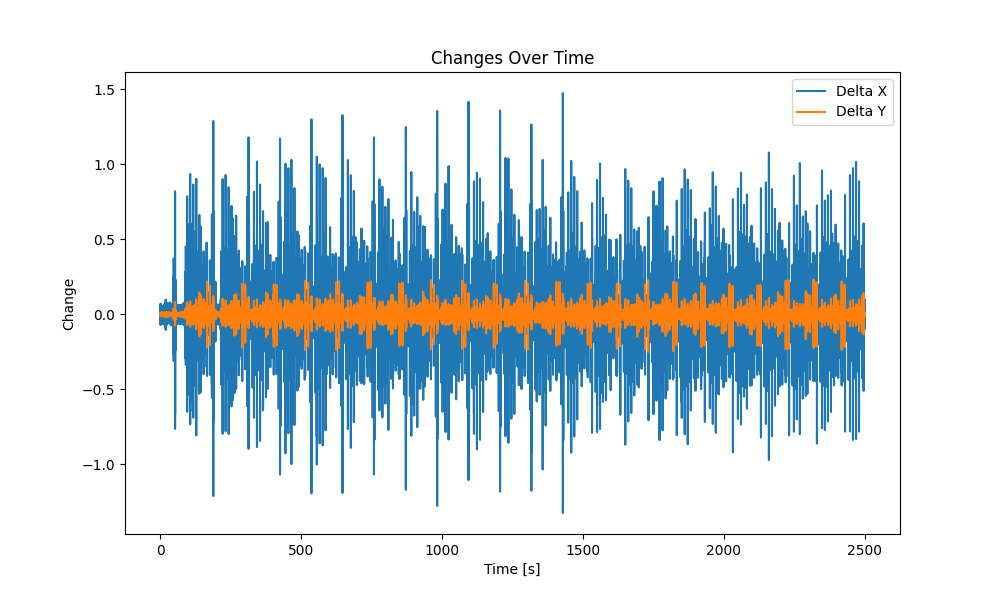
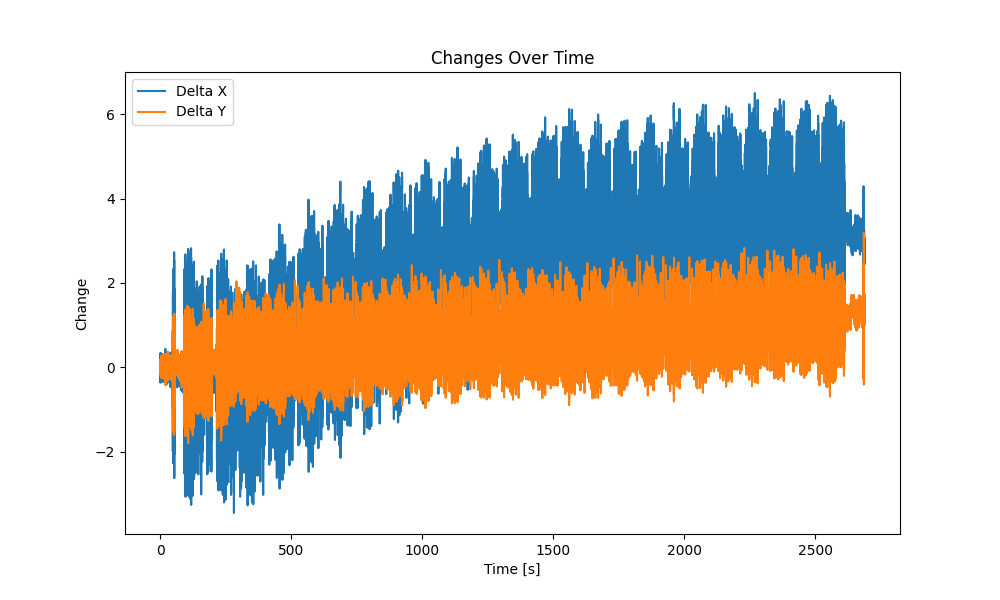
Corrected approach to deltas (102-104), omitted first frequencies in plotting (183), and deltas distribution plot is no longer limited to a fraction of the total range and is plotted whole (205-206).

diff --git a/main.py b/main.py
@@ -75,7 +75,8 @@ def process_interferometer_data(csv_paths, zenithal_angles, D_mm, delta_angle, o
     deltas_x = []
     deltas_y = []
     phis = []
-    prev_measurements = [None, None, None]
+    baseline_measurement = [None, None, None]
+
 
     for i, (measurement1, measurement2, measurement3) in enumerate(raw_measurements):
         # Apply mathematical corrections
@@ -83,24 +84,20 @@ def process_interferometer_data(csv_paths, zenithal_angles, D_mm, delta_angle, o
         horizontal_distance2 = measurement2 * m.sin(gon2rad(zenithal_angles[1]))
         horizontal_distance3 = measurement3 * m.sin(gon2rad(zenithal_angles[2]))
 
+        if None in baseline_measurement:
+            baseline_measurement = (horizontal_distance1, horizontal_distance2, horizontal_distance3)
+
         # Calculate cartesian coordinates
-        if None not in prev_measurements:
-            delta_x = ((horizontal_distance1 * m.sin(delta) - prev_measurements[0] * m.sin(delta)) + (horizontal_distance2 * m.sin(m.tau - omega) - prev_measurements[1] * m.sin(m.tau - omega)))/2
-            phi = ((horizontal_distance2  - prev_measurements[1] ) * m.sin(m.tau - omega) - ((horizontal_distance1 - prev_measurements[0]) * m.sin(delta)))/D
-            delta_y = m.sin(ksi) * (horizontal_distance3 - prev_measurements[2]) - (D/2 - (D * m.cos(phi))/2)
-        else:
-            delta_x = 0
-            phi = 0
-            delta_y = 0
+        delta_x = ((horizontal_distance1 * m.sin(delta) - baseline_measurement[0] * m.sin(delta)) + (horizontal_distance2 * m.sin(m.tau - omega) - baseline_measurement[1] * m.sin(m.tau - omega)))/2
+        phi = ((horizontal_distance2  - baseline_measurement[1] ) * m.sin(m.tau - omega) - ((horizontal_distance1 - baseline_measurement[0]) * m.sin(delta)))/D
+        delta_y = m.cos(ksi) * (horizontal_distance3 - baseline_measurement[2]) - (D/2 - (D * m.cos(phi))/2)
+
 
         # Append data to lists
         horizontal_distances.append((horizontal_distance1 * 10**6, horizontal_distance2 * 10**6, horizontal_distance3 * 10**6))
         deltas_x.append(delta_x * 10**6)
         deltas_y.append(delta_y * 10**6)
         phis.append(phi * 10**6)
-
-        # Update previous measurements
-        prev_measurements = (horizontal_distance1, horizontal_distance2, horizontal_distance3)
 
     # Create a DataFrame from the lists
     df = pd.DataFrame({
@@ -180,7 +177,7 @@ def analyze_data(df):
 
     # Plot the frequency distribution
     plt.figure(figsize=(10, 6))
-    plt.plot(FreqAxis, np.abs(FreqDist), label='Absolute Frequency Distribution')
+    plt.plot(FreqAxis[2:], np.abs(FreqDist)[2:], label='Absolute Frequency Distribution')
     plt.xlabel('Frequency (Hz)')
     plt.ylabel('Amplitude')
     plt.title('Absolute Frequency Distribution')
@@ -202,8 +199,8 @@ def analyze_data(df):
 
     # Bin the sizes of delta X and Y and plot their distribution
     plt.figure(figsize=(10, 6))
-    plt.hist(df['Delta X [um]'].values, bins=1500, alpha=1, label='Delta X', range=(min_x/5, max_x/5))
-    plt.hist(df['Delta Y [um]'].values, bins=1500, alpha=0.5, label='Delta Y', range=(min_y/5, max_y/5))
+    plt.hist(df['Delta X [um]'].values, bins=1500, alpha=1, label='Delta X')#, range=(min_x/5, max_x/5))
+    plt.hist(df['Delta Y [um]'].values, bins=1500, alpha=0.5, label='Delta Y')#, range=(min_y/5, max_y/5))
     plt.xlabel('Change')
     plt.ylabel('Frequency')
     plt.title('Distribution of Delta X and Y')
@@ -236,8 +233,8 @@ def main():
     # Value of D in millimeters
     D_value = 173.588
 
-    # Value of D in millimeters
-    max_time = 2500
+    # Maximum time in seconds
+    max_time = 2690
 
     # Process interferometer data
     dfs = process_interferometer_data(IFM_files,IFM_zenithal_angles, D_value, delta_angle, omega_angle, ksi_angle, max_time)
